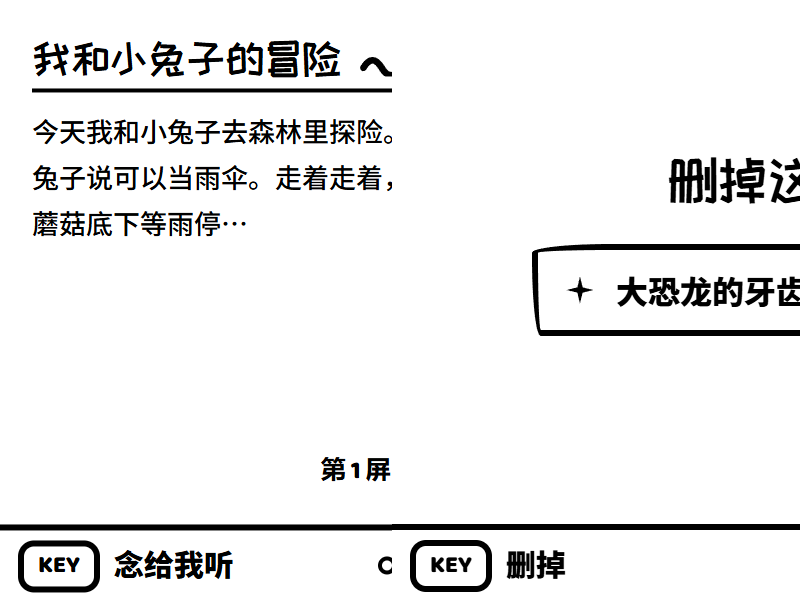
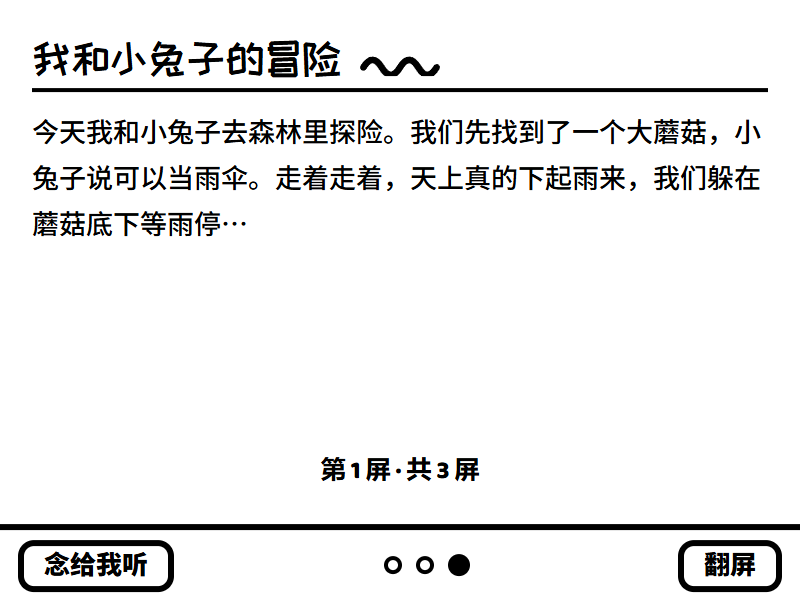
feat(ui-v5): V5 第二轮——键帽动作文字入盒 + P2 外框加粗 + P3/查字窗框族转正 + 截图邻画隔离修复
- 键帽条（24 处）：盒内直接写动作文字（说话/翻页/问课程…），不显示 KEY/BOOT 键名；长按场景前缀「长按·」；手势表保留物理键名
- P2 今天列弃反色：外轮廓 4px 加粗、列内横线保持 1.5px 细线（默认格线 2→1.5px）——反色真机效果不好
- P3 框族弃八值手绘圆角＋微倾：改正常圆角矩形（10px 单值圆角）；★×N 计数去框裸排；录音气泡去倾
- 查字窗：米字格框改 14px 正圆角；右栏纯文本化（弃速查卡框族与静态对照小块）
- 子画面网格列宽 330→450px 修同排画布横向溢出叠压
- shoot_design.mjs 邻画隔离：z=2 的 800px 画布溢出网格列、后 DOM 画布叠绘污染 2x 截图右半（p3-recording 9%/state-listening 5.8% 等 4 幅受染）——截前 visibility 隐藏其它画布；2x↔1bpp 自洽率全部收敛 0.4~2.4%
- 24 张布局锚图全量重出（含修正上一批受污染的 4 幅 2x 图）

diff --git a/docs/ui/kidpal-ui-design-v5.html b/docs/ui/kidpal-ui-design-v5.html
@@ -33,6 +33,7 @@ h1,h2,h3,h4,p{text-wrap:pretty}
 /* ── 手绘框族 ── */
 .frm{border:3px solid var(--ink);border-radius:var(--hand-r)}
 .frm-sm{border:3px solid var(--ink);border-radius:var(--hand-r-sm)}
+.rbox{border:3px solid var(--ink);border-radius:10px}
 .frm-flat{border-bottom:3px solid var(--ink);border-radius:var(--hand-r-sm)}
 .tilt1{transform:rotate(-1deg)}.tilt1r{transform:rotate(1deg)}.tilt2{transform:rotate(-2deg)}.tilt2r{transform:rotate(2deg)}
 
@@ -134,7 +135,7 @@ input[type=range].zoom::-moz-range-thumb{width:14px;height:14px;border-radius:50
 /* ── 画布内通用元件（全部绝对定位，单位＝真机像素） ── */
 .pgbuts{left:0;right:0;bottom:0;height:38px;border-top:3px solid var(--ink);display:flex;align-items:center;justify-content:space-between;gap:6px;padding:0 9px;background:var(--paper)}
 .pgbuts .cell{display:flex;align-items:center;gap:7px;font-size:15px;font-weight:900;white-space:nowrap}
-.pgbuts .kd{display:inline-flex;align-items:center;justify-content:center;min-width:40px;height:26px;padding:0 7px;border:3px solid var(--ink);border-radius:8px;font-family:var(--f-num);font-weight:800;font-size:12px;background:var(--paper)}
+.pgbuts .kd{display:inline-flex;align-items:center;justify-content:center;min-width:52px;height:26px;padding:0 10px;border:3px solid var(--ink);border-radius:8px;font-weight:900;font-size:13px;background:var(--paper)}
 .pgdots{display:flex;gap:7px;align-items:center}
 .pgdots i{width:9px;height:9px;border:2.5px solid var(--ink);border-radius:50%;display:block}
 .pgdots i.on{background:var(--ink);width:11px;height:11px}
@@ -177,7 +178,7 @@ input[type=range].zoom::-moz-range-thumb{width:14px;height:14px;border-radius:50
 .state-item .zoomwrap{--z:.72}
 
 /* ── 双列小画布（P3 子状态等） ── */
-.subshots{display:grid;grid-template-columns:repeat(auto-fit,minmax(330px,1fr));gap:26px;margin-top:26px;align-items:start}
+.subshots{display:grid;grid-template-columns:repeat(auto-fit,minmax(450px,1fr));gap:26px;margin-top:26px;align-items:start}
 .subshots figure{display:flex;flex-direction:column;align-items:center;gap:9px}
 .subshots .zoomwrap{--z:1.05}
 .subshots figcaption{font-size:14.5px;font-weight:700}
@@ -231,10 +232,12 @@ footer small{display:block;margin-top:8px;font-size:12px;font-weight:500}
 .ovr-notes{display:flex;flex-direction:column;gap:9px}
 /* P2 课表网格 */
 .sched{width:100%;height:100%;border-collapse:collapse;table-layout:fixed;font-size:12px;font-weight:700;text-align:center}
-.sched th,.sched td{border:2px solid var(--ink);vertical-align:top;padding:2px 1px;line-height:1.32}
+.sched th,.sched td{border:1.5px solid var(--ink);vertical-align:top;padding:2px 1px;line-height:1.32}
 .sched th{font-size:11px;font-weight:900;vertical-align:middle;height:20px}
 .sched td.rowh{font-size:12px;font-weight:900;vertical-align:middle;width:26px}
-.sched td.inv,.sched th.inv{border-color:var(--ink)}
+.sched th.tdy,.sched td.tdy{border-left:4px solid var(--ink);border-right:4px solid var(--ink)}
+.sched th.tdy{border-top:4px solid var(--ink)}
+.sched tr:last-child td.tdy{border-bottom:4px solid var(--ink)}
 </style>
 </head>
 <body>
@@ -243,6 +246,12 @@ footer small{display:block;margin-top:8px;font-size:12px;font-weight:500}
   ② 明日预告改为「明早」标签区：标签与「接下来」同规格小字，下接明日安排——常显页回答「接下来」与「明早」两级；
   ③ P1 辅助条日期英文化：星期三 6月26日 → Tue 22 Sep（星期简写+日+月简写，无「今天」字样），仅 P1；
   ④ 删 canvas-p1 画布内标注针 ①②③④——布局锚图（shoot_design.mjs 截图，给 dev-loop Pod 消费）不再带针，避免开发比对出错。
+-->
+<!-- ══ v5 第二轮修订（2026-09-22 晚，真机可实现性收敛） ══
+  ⑤ 键帽条改动作文字入盒：所有按键盒内直接写动作文字（说话／翻页／问课程…），不显示 KEY/BOOT 键名；
+  ⑥ P2 今天列弃反色：改外轮廓加粗高亮——列外框 4px、列内横线保持 1.5px 细线（默认格线 1.5px；反色真机效果不好）；
+  ⑦ P3 弃倾斜手绘框：框族一律正常圆角矩形（10px 单值圆角、无倾斜——八值圆角＋微倾真机难实现且显乱）；右上角 ★×N 计数去框裸排（圆角框太挤）；
+  ⑧ 查字窗：左侧米字格框改正圆角矩形，右栏弃速查卡框族与静态对照小块、全部纯文本显示。
 -->
 <!-- ══ v4 修订记录（2026-09-14，全面对齐 requirements.md v1.50 + PHASE1-DESIGN-INPUT.md） ══
   ① P1 首页重心重排（WF-F1-01）：「接下来」日程+倒计时为主体，联网/时间/日期/温湿度/电量收进顶部辅助条小字（📶 打头、图标前置）；v3 的 112px 大时间与眨眼冒号、温度计小人/水滴宝宝随重排退场——时间退居辅助位是 v1.4 设备定位调整的既定代价，孩子若怀念可作时段彩蛋另议；
@@ -404,7 +413,7 @@ footer small{display:block;margin-top:8px;font-size:12px;font-weight:500}
   <div class="cover-grid">
     <div>
       <h1 data-od-id="cover-title">别像一台闹钟，<br/><em>要像一个住进屏幕的伙伴。</em></h1>
-      <p class="sub" data-od-id="cover-sub">给 8–12 岁的孩子、一块 400×300 的黑白反射屏、两颗物理键——这一版只回答一个问题：<b>孩子第一眼会不会喊出「好可爱」。</b>v5 主刀 P1：「接下来」改文本列表、「明早」标签预告区、辅助条日期英文化（Tue 22 Sep）；其余沿用 v4 对齐 requirements v1.50 的结构底盘，spec 修订随后同步。</p>
+      <p class="sub" data-od-id="cover-sub">给 8–12 岁的孩子、一块 400×300 的黑白反射屏、两颗物理键——这一版只回答一个问题：<b>孩子第一眼会不会喊出「好可爱」。</b>v5 主刀：P1 文本列表化＋「明早」标签区＋日期英文化（Tue 22 Sep）；键帽动作文字入盒（不显示键名）；P2 今天列改边框加粗；P3 与查字窗框族改正常圆角、查字窗右栏纯文本。spec 修订随后同步。</p>
       <div class="meta-stamps" data-od-id="cover-stamps">
         <span class="stamp-tag tilt1r"><b>1bpp</b> 纯黑白</span>
         <span class="stamp-tag tilt1"><b>400×300</b> 真实画布</span>
@@ -573,17 +582,17 @@ footer small{display:block;margin-top:8px;font-size:12px;font-weight:500}
       <h3>底部键帽提示条</h3>
       <div class="dev" style="position:relative;transform:none;width:352px;max-width:100%;height:64px;outline-offset:-2.5px">
         <div class="pgbuts" style="top:22px;height:38px">
-          <span class="cell"><span class="kd">KEY</span>说话</span>
+          <span class="cell"><span class="kd">说话</span></span>
           <div class="pgdots"><i></i><i class="on"></i><i></i></div>
-          <span class="cell">翻页<span class="kd">BOOT</span></span>
+          <span class="cell"><span class="kd">翻页</span></span>
         </div>
       </div>
       <table class="spec-table"><tbody>
         <tr><th>高度</th><td>38px，通栏贴底，上沿一条 3px 实线分隔</td></tr>
-        <tr><th>布局</th><td>左槽＝KEY 操作提示；<b>中槽＝3 点页面指示器</b>（当前页实心放大）；右槽＝BOOT 提示</td></tr>
+        <tr><th>布局</th><td>左槽＝左键操作提示；<b>中槽＝3 点页面指示器</b>（当前页实心放大）；右槽＝右键提示——键名（KEY/BOOT）不上屏，盒内直接写动作文字</td></tr>
         <tr><th>页点规则</th><td><b>页点仅 P1–P3 主页面显示</b>；覆盖层（提醒弹窗/查字窗/语音轮演出/删除确认）不显示页点，左右槽照常给操作提示；<b>条本身任何状态常驻</b>（基座 chrome，覆盖层盖不掉）</td></tr>
-        <tr><th>键帽规格</th><td>高 26px、最小宽 40px、圆角 8px、3px 描边、字母用圆胖数字体——这是界面上唯一的「操作控件」长相，但它是<b>提示</b>不是按钮</td></tr>
-        <tr><th>长按注记</th><td>需要长按时在键帽左侧挂小字「长按」，如 <span class="kd" style="height:22px;font-size:11px">BOOT</span><span class="kcap-note">长按</span></td></tr>
+        <tr><th>键帽规格</th><td>高 26px、最小宽 52px、圆角 8px、3px 描边、盒内动作文字（900 字重 13px）——这是界面上唯一的「操作控件」长相，但它是<b>提示</b>不是按钮</td></tr>
+        <tr><th>长按注记</th><td>需要长按时动作文字前缀「长按·」，如 <span class="kd" style="height:22px;font-size:11px">长按·删除</span></td></tr>
       </tbody></table>
     </article>
 
@@ -757,9 +766,9 @@ footer small{display:block;margin-top:8px;font-size:12px;font-weight:500}
           <svg style="width:58px;left:18px;bottom:52px" viewBox="0 0 48 14"><use href="#ic-wave"/></svg>
           <!-- 底部键帽条（全局 chrome，非页内元素） -->
           <div class="pgbuts">
-            <span class="cell"><span class="kd">KEY</span>说话</span>
+            <span class="cell"><span class="kd">说话</span></span>
             <div class="pgdots"><i class="on"></i><i></i><i></i></div>
-            <span class="cell">翻页<span class="kd">BOOT</span></span>
+            <span class="cell"><span class="kd">翻页</span></span>
           </div>
         </div></div></div>
         <label class="zoom-row"><svg viewBox="0 0 48 48"><use href="#ic-mag"/></svg><input class="zoom" type="range" min="0.6" max="2.2" step="0.05" value="1.7" aria-label="P1 画布缩放"/><output class="zoom-val">1.7×</output></label>
@@ -788,13 +797,13 @@ footer small{display:block;margin-top:8px;font-size:12px;font-weight:500}
         <div class="bezel"><div class="devsz"><div class="dev" data-od-id="canvas-p2">
           <table class="sched" style="left:5px;top:6px;width:390px;height:250px">
             <tr>
-              <th></th><th>周一</th><th>周二</th><th class="inv">周三</th><th>周四</th><th>周五</th><th>周六</th><th>周日</th>
+              <th></th><th>周一</th><th>周二</th><th class="tdy">周三</th><th>周四</th><th>周五</th><th>周六</th><th>周日</th>
             </tr>
             <tr style="height:96px">
               <td class="rowh">上午</td>
               <td>语文<br/>数学<br/>英语<br/>体育</td>
               <td>语文<br/>英语<br/>体育<br/>美术</td>
-              <td class="inv">数学<br/>语文<br/>英语<br/>音乐</td>
+              <td class="tdy">数学<br/>语文<br/>英语<br/>音乐</td>
               <td>语文<br/>数学<br/>科学<br/>英语</td>
               <td>数学<br/>语文<br/>体育<br/>美术</td>
               <td>英语</td>
@@ -804,7 +813,7 @@ footer small{display:block;margin-top:8px;font-size:12px;font-weight:500}
               <td class="rowh">下午</td>
               <td>科学<br/>美术</td>
               <td>数学<br/>科学</td>
-              <td class="inv">体育<br/>★钢琴</td>
+              <td class="tdy">体育<br/>★钢琴</td>
               <td>美术<br/>体育</td>
               <td>音乐<br/>班队</td>
               <td></td>
@@ -814,7 +823,7 @@ footer small{display:block;margin-top:8px;font-size:12px;font-weight:500}
               <td class="rowh">晚上</td>
               <td></td>
               <td></td>
-              <td class="inv">书法</td>
+              <td class="tdy">书法</td>
               <td>编程</td>
               <td></td>
               <td>舞蹈</td>
@@ -822,9 +831,9 @@ footer small{display:block;margin-top:8px;font-size:12px;font-weight:500}
             </tr>
           </table>
           <div class="pgbuts">
-            <span class="cell"><span class="kd">KEY</span>问课程</span>
+            <span class="cell"><span class="kd">问课程</span></span>
             <div class="pgdots"><i></i><i class="on"></i><i></i></div>
-            <span class="cell">翻页<span class="kd">BOOT</span></span>
+            <span class="cell"><span class="kd">翻页</span></span>
           </div>
         </div></div></div>
         <label class="zoom-row"><svg viewBox="0 0 48 48"><use href="#ic-mag"/></svg><input class="zoom" type="range" min="0.6" max="2.2" step="0.05" value="1.7" aria-label="P2 画布缩放"/><output class="zoom-val">1.7×</output></label>
@@ -832,8 +841,8 @@ footer small{display:block;margin-top:8px;font-size:12px;font-weight:500}
       <aside class="rail">
         <ul class="pts frm-sm" data-od-id="p2-notes">
           <li><b>网格口径</b>：格内逐节列课程名——学校课上午 4 节、下午 2 节逐节列出，课外课（固定培训班＋临时安排）逐门列出；不按具体钟点排，一格多门逐门列出、不做格内滚动</li>
-          <li><b>三种 1bpp 标记</b>：今天列整列反色高亮（图例＝周三）；※＝临时安排；★＝被首页「接下来」标记的课（与 P1「14:00 钢琴课」呼应——跨页叙事连续性）</li>
-          <li><b>页内无标题、无操作提示</b>：省出高度给网格；操作提示归全局键帽条（左「KEY 问课程」／右「BOOT 翻页」）</li>
+          <li><b>三种 1bpp 标记</b>：今天列外轮廓加粗高亮（列外框 4px、列内横线仍 1.5px 细线，默认格线 1.5px；图例＝周三——反色真机效果不好已弃）；※＝临时安排；★＝被首页「接下来」标记的课（与 P1「14:00 钢琴课」呼应——跨页叙事连续性）</li>
+          <li><b>页内无标题、无操作提示</b>：省出高度给网格；操作提示归全局键帽条（左「问课程」／右「翻页」——键帽盒内直接写动作文字，不显示键名）</li>
           <li><b>字号压力</b>：上午格要塞 4 行课程名，格内 12px 小字正撞 1bpp 可读性下限（未实测）——先按可读字号排，实测后回写校准</li>
           <li>问细节用语音（「我下节课在哪」答案走问答框，不嵌回本页）；说「帮我显示课表」才切到本页；周末空格自然留白</li>
         </ul>
@@ -848,12 +857,12 @@ footer small{display:block;margin-top:8px;font-size:12px;font-weight:500}
       <div class="zoomwrap">
         <div class="bezel"><div class="devsz"><div class="dev" data-od-id="canvas-p3">
           <!-- 右上角星星计数 = 页身份（页内无标题） -->
-          <span class="frm-sm tilt2r" style="right:12px;top:10px;display:inline-flex;align-items:center;gap:5px;padding:2px 9px;background:#fff">
-            <svg style="width:17px" viewBox="0 0 48 48"><use href="#ic-star"/></svg>
-            <b style="font-family:var(--f-num);font-weight:800;font-size:15px">×5</b>
+          <span style="right:12px;top:10px;display:inline-flex;align-items:center;gap:5px">
+            <svg style="width:19px" viewBox="0 0 48 48"><use href="#ic-star"/></svg>
+            <b style="font-family:var(--f-num);font-weight:800;font-size:17px">×5</b>
           </span>
           <div style="left:14px;top:44px;right:14px;display:flex;flex-direction:column;gap:5px">
-            <div class="frm-sm tilt1" style="display:flex;align-items:center;gap:10px;padding:5px 10px;background:#fff">
+            <div class="rbox" style="display:flex;align-items:center;gap:10px;padding:5px 10px;background:#fff">
               <svg style="width:18px;flex:none" viewBox="0 0 48 48"><use href="#ic-star"/></svg>
               <b style="font-size:16px;font-weight:900">我和小兔子的冒险</b>
               <b style="font-family:var(--f-num);font-weight:800;font-size:12px;margin-left:auto">昨天</b>
@@ -877,9 +886,9 @@ footer small{display:block;margin-top:8px;font-size:12px;font-weight:500}
           <span class="voice-chip" style="left:14px;top:210px;font-size:11.5px"><svg style="width:14px" viewBox="0 0 48 48"><use href="#ic-mic"/></svg>说「我要讲故事 / 帮我记下来」开录新的</span>
           <div style="left:0;right:0;bottom:44px;text-align:center;font-family:var(--f-num);font-weight:800;font-size:12px">第 1 屏 · 共 3 屏</div>
           <div class="pgbuts">
-            <span class="cell"><span class="kd">KEY</span>说话·双击看</span>
+            <span class="cell"><span class="kd">说话·双击看</span></span>
             <div class="pgdots"><i></i><i></i><i class="on"></i></div>
-            <span class="cell">下移<span class="kd">BOOT</span></span>
+            <span class="cell"><span class="kd">下移</span></span>
           </div>
         </div></div></div>
         <label class="zoom-row"><svg viewBox="0 0 48 48"><use href="#ic-mag"/></svg><input class="zoom" type="range" min="0.6" max="2.2" step="0.05" value="1.7" aria-label="P3 画布缩放"/><output class="zoom-val">1.7×</output></label>
@@ -887,7 +896,7 @@ footer small{display:block;margin-top:8px;font-size:12px;font-weight:500}
       <aside class="rail">
         <ul class="pts frm-sm" data-od-id="p3-notes">
           <li><b>页内无标题</b>：右上角 ★×N 计数即页身份——每记一篇集一颗星，收集成就感的种子；计数＝现存篇数（删除会 −1）</li>
-          <li><b>每条＝星星＋标题＋日期</b>；选中行<b>带边框不反白</b>（反白真机效果差，v1.31 human 裁）；进页默认光标落第一条</li>
+          <li><b>每条＝星星＋标题＋日期</b>；选中行<b>带边框不反白</b>（反白真机效果差，v1.31 human 裁）；v5 起全页框族一律正常圆角矩形（10px 单值圆角、无倾斜——手绘八值圆角＋微倾真机难实现且显乱）；进页默认光标落第一条</li>
           <li>超一屏底部「第 x 屏 · 共 y 屏」（与阅读态同心智）；BOOT 下移／双击跳屏／到底 wrap，<b>列表态无按键翻页出口</b>（离开＝KEY 双击看／KEY 长按回首页／语音切页）</li>
           <li>常驻语音入口提示（双指令）：「我要讲故事 / 帮我记下来」；BOOT 长按＝删除选中 → 确认弹窗（见下）</li>
         </ul>
@@ -904,11 +913,11 @@ footer small{display:block;margin-top:8px;font-size:12px;font-weight:500}
           </div>
           <div style="left:180px;top:38px;font-family:var(--f-num);font-weight:800;font-size:44px;letter-spacing:-1px">02:35</div>
           <svg style="left:180px;top:94px;width:206px" viewBox="0 0 48 14" preserveAspectRatio="none" height="34"><path d="M2 7 L8 2 L13 12 L18 4 L24 12 L29 3 L35 11 L41 5 L46 9" fill="none" stroke="#000" stroke-width="2.5" stroke-linecap="round" stroke-linejoin="round"/></svg>
-          <div class="bub tilt1" style="left:180px;top:138px;font-size:14px">跟着感觉说，我在记！</div>
+          <div class="bub" style="left:180px;top:138px;font-size:14px">跟着感觉说，我在记！</div>
           <div style="left:180px;top:184px;right:12px;font-size:12.5px;font-weight:700;line-height:1.65">我：今天我们去了动物园，<br/>我：看到了长颈鹿…</div>
           <div class="pgbuts">
-            <span class="cell"><span class="kd">KEY</span>收尾</span>
-            <span class="cell">结束<span class="kd">BOOT</span></span>
+            <span class="cell"><span class="kd">收尾</span></span>
+            <span class="cell"><span class="kd">结束</span></span>
           </div>
         </div></div></div></div>
         <figcaption>子状态① 录音中（四态同骨架：左小伴 pose-record · 右内容区）——REC 闪点＋大时长＋声波＋整段累积回显；开口前的引导态复用聆听布局、气泡换「需要我帮你记点什么？」</figcaption>
@@ -923,9 +932,9 @@ footer small{display:block;margin-top:8px;font-size:12px;font-weight:500}
           <p style="left:16px;right:16px;top:54px;font-size:13.5px;line-height:1.72;font-weight:500;margin:0">今天我和小兔子去森林里探险。我们先找到了一个大蘑菇，小兔子说可以当雨伞。走着走着，天上真的下起雨来，我们躲在蘑菇底下等雨停…</p>
           <div style="left:0;right:0;bottom:52px;text-align:center;font-family:var(--f-num);font-weight:800;font-size:12.5px">第 1 屏 · 共 3 屏</div>
           <div class="pgbuts">
-            <span class="cell"><span class="kd">KEY</span>念给我听</span>
+            <span class="cell"><span class="kd">念给我听</span></span>
             <div class="pgdots"><i></i><i></i><i class="on"></i></div>
-            <span class="cell">翻屏<span class="kd">BOOT</span></span>
+            <span class="cell"><span class="kd">翻屏</span></span>
           </div>
         </div></div></div></div>
         <figcaption>子状态② 阅读态（纯阅读＋朗读一义到底，无会话入口）——标题＋分隔线＋正文分屏（13.5px 起、行高 1.72）；BOOT 翻屏末屏 wrap 永不离页；KEY 长按退出回列表</figcaption>
@@ -933,14 +942,14 @@ footer small{display:block;margin-top:8px;font-size:12px;font-weight:500}
       <figure data-od-id="p3-delete-confirm">
         <div class="zoomwrap"><div class="bezel"><div class="devsz"><div class="dev">
           <b style="left:0;right:0;top:66px;text-align:center;font-family:var(--f-disp);font-weight:400;font-size:27px">删掉这篇？</b>
-          <div class="frm-sm" style="left:70px;top:122px;width:260px;display:flex;align-items:center;gap:9px;padding:6px 12px;background:#fff">
+          <div class="rbox" style="left:70px;top:122px;width:260px;display:flex;align-items:center;gap:9px;padding:6px 12px;background:#fff">
             <svg style="width:18px;flex:none" viewBox="0 0 48 48"><use href="#ic-star"/></svg>
             <b style="font-size:16px;font-weight:900">大恐龙的牙齿</b>
             <b style="font-family:var(--f-num);font-weight:800;font-size:12px;margin-left:auto">9月10日</b>
           </div>
           <div class="pgbuts">
-            <span class="cell"><span class="kd">KEY</span>删掉</span>
-            <span class="cell">算了<span class="kd">BOOT</span></span>
+            <span class="cell"><span class="kd">删掉</span></span>
+            <span class="cell"><span class="kd">算了</span></span>
           </div>
         </div></div></div></div>
         <figcaption>子状态③ 删除确认弹窗（整屏覆盖层，与提醒同族）——列表态 BOOT 长按进；KEY＝确认（星星计数 −1）／BOOT 任意手势＝取消；10 秒无操作静默取消（不显示倒计时）</figcaption>
@@ -973,7 +982,7 @@ footer small{display:block;margin-top:8px;font-size:12px;font-weight:500}
       <div class="zoomwrap">
         <div class="bezel"><div class="devsz"><div class="dev" data-od-id="char-window">
           <!-- 左：米字格大字盘 -->
-          <div class="frm" style="left:10px;top:16px;width:236px;height:236px;background:#fff">
+          <div class="rbox" style="left:10px;top:16px;width:236px;height:236px;background:#fff;border-radius:14px">
             <!-- B8 锁定（v3 定稿沿用）：固件侧笔顺字盘打包 = 笔形 3 态（todo/cur/done）叠加复用 + 米字格单份背景，禁逐笔逐态整帧烘烤 -->
               <svg id="charsvg" style="position:absolute;left:10px;top:10px;width:208px;height:208px" viewBox="0 0 200 200">
               <g stroke="#000" stroke-width="1.5" stroke-dasharray="3 9">
@@ -997,22 +1006,14 @@ footer small{display:block;margin-top:8px;font-size:12px;font-weight:500}
           </div>
           <!-- 右栏速查卡 -->
           <div style="left:262px;top:24px;font-family:var(--f-disp);font-weight:400;font-size:34px">xīng</div>
-          <div class="frm-sm" style="left:262px;top:76px;padding:2px 10px;font-size:14px;font-weight:400;font-family:var(--f-disp)">共 <b style="font-family:var(--f-num);font-weight:800;font-size:17px">9</b> 画</div>
-          <div style="left:262px;top:112px;font-size:14px;font-weight:400;font-family:var(--f-disp)">部首：<span class="frm-sm" style="display:inline-block;padding:0 8px;margin-left:4px">日</span></div>
-          <div style="left:262px;top:148px;display:flex;gap:7px">
-            <span class="frm-sm" style="display:inline-block;padding:2px 10px;font-size:15px;font-weight:400;background:#fff;font-family:var(--f-disp)">星星</span>
-            <span class="frm-sm" style="display:inline-block;padding:2px 10px;font-size:15px;font-weight:400;background:#fff;font-family:var(--f-disp)">星空</span>
-          </div>
+          <div style="left:262px;top:78px;font-size:15px;font-weight:400;font-family:var(--f-disp)">共 <b style="font-family:var(--f-num);font-weight:800;font-size:18px">9</b> 画</div>
+          <div style="left:262px;top:114px;font-size:15px;font-weight:400;font-family:var(--f-disp)">部首：日</div>
+          <div style="left:262px;top:150px;font-size:15px;font-weight:400;font-family:var(--f-disp)">组词：星星 · 星空</div>
           <div style="left:262px;top:188px;font-size:15px;font-weight:400;font-family:var(--f-disp)" id="progtext"></div>
           <svg class="bob" style="left:280px;top:226px;width:20px" viewBox="0 0 48 48"><use href="#ic-star"/></svg>
-          <!-- 静态对照小块 -->
-          <div style="left:356px;top:16px;display:flex;flex-direction:column;gap:6px">
-            <svg class="frm-sm" style="width:34px;height:34px;background:#fff" viewBox="0 0 200 200"><g fill="#000" opacity=".18"><path d="M66 20 C70 19 72 21 71 25 L70 74 C70 79 68 82 65 82 C62 82 61 79 61 74 L62 25 C62 21 63 20 66 20 Z"/><path d="M64 18 L136 18 C140 18 141 21 140 24 L138 74 C138 79 135 82 131 82 L131 76 L134 24 L66 24 Z"/><path d="M64 49 L136 49 C139 49 140 51 139 53 L139 55 L63 55 L63 53 C62 51 62 49 64 49 Z"/><path d="M63 78 L137 78 C141 78 143 82 140 84 C133 87 71 87 62 84 C59 82 60 78 63 78 Z"/><path d="M101 89 C104 88 106 90 104 93 L85 131 C83 136 79 137 77 135 C75 133 76 130 78 127 L97 91 C98 89 99 89 101 89 Z"/><path d="M80 131 L137 131 C140 131 141 133 140 135 L140 137 L78 137 L78 135 C77 133 78 131 80 131 Z"/><path d="M79 151 L134 151 C138 151 139 153 138 155 L138 157 L77 157 L77 155 C76 153 77 151 79 151 Z"/><path d="M101 89 C104 89 106 91 106 94 L106 191 C106 195 104 197 100 197 C96 197 94 195 94 191 L94 94 C94 91 96 89 99 89 Z"/><path d="M62 192 L138 192 C143 192 145 196 141 198 C132 201 70 201 61 198 C57 196 58 192 62 192 Z"/></g></svg>
-            <svg class="frm-sm" style="width:34px;height:34px;background:#fff" viewBox="0 0 200 200"><g fill="#000"><path d="M66 20 C70 19 72 21 71 25 L70 74 C70 79 68 82 65 82 C62 82 61 79 61 74 L62 25 C62 21 63 20 66 20 Z"/><path d="M64 18 L136 18 C140 18 141 21 140 24 L138 74 C138 79 135 82 131 82 L131 76 L134 24 L66 24 Z"/><path d="M64 49 L136 49 C139 49 140 51 139 53 L139 55 L63 55 L63 53 C62 51 62 49 64 49 Z"/><path d="M63 78 L137 78 C141 78 143 82 140 84 C133 87 71 87 62 84 C59 82 60 78 63 78 Z"/><path d="M101 89 C104 88 106 90 104 93 L85 131 C83 136 79 137 77 135 C75 133 76 130 78 127 L97 91 C98 89 99 89 101 89 Z"/><path d="M80 131 L137 131 C140 131 141 133 140 135 L140 137 L78 137 L78 135 C77 133 78 131 80 131 Z"/><path d="M79 151 L134 151 C138 151 139 153 138 155 L138 157 L77 157 L77 155 C76 153 77 151 79 151 Z"/><path d="M101 89 C104 89 106 91 106 94 L106 191 C106 195 104 197 100 197 C96 197 94 195 94 191 L94 94 C94 91 96 89 99 89 Z"/><path d="M62 192 L138 192 C143 192 145 196 141 198 C132 201 70 201 61 198 C57 196 58 192 62 192 Z"/></g></svg>
-          </div>
           <div class="pgbuts">
-            <span class="cell"><span class="kd">KEY</span>重播</span>
-            <span class="cell">结束<span class="kd">BOOT</span></span>
+            <span class="cell"><span class="kd">重播</span></span>
+            <span class="cell"><span class="kd">结束</span></span>
           </div>
         </div></div></div>
         <label class="zoom-row"><svg viewBox="0 0 48 48"><use href="#ic-mag"/></svg><input class="zoom" type="range" min="0.6" max="2.2" step="0.05" value="1.7" aria-label="查字窗画布缩放"/><output class="zoom-val">1.7×</output></label>
@@ -1024,7 +1025,7 @@ footer small{display:block;margin-top:8px;font-size:12px;font-weight:500}
           <li><b>会话口径</b>：弹窗播 TTS 引导语（「星字一共 9 笔，跟着我一起写吧」——不逐笔念笔名），播完会话即结束、不回聆听态，孩子安静照写</li>
           <li><b>窗口口径</b>：覆盖窗无页点；驻留到按键，或 5 分钟无操作自动关窗回原页；BOOT／KEY 长按＝关窗回原页不翻页（v1.39 隔离）</li>
           <li><b>Teaching 字体红线</b>：只有米字格里的示范「星」字必须规范字形（横平竖直、不抖不斜，孩子照着写）；拼音／部首／组词等说明文字回归可爱体，不当教材</li>
-          <li>右栏拼音／笔画数／部首／组词保持速查卡密度，不做关键词解释墙；右侧两枚小方块＝「未写态／完成态」静态对照，供评审离线核对</li>
+          <li>右栏拼音／笔画数／部首／组词纯文本列出，不做关键词解释墙（v5 弃速查卡框族与静态对照小块——右侧无框、全部文本显示；框族同时改正圆角矩形）</li>
         </ul>
       </aside>
     </div>
@@ -1050,8 +1051,8 @@ footer small{display:block;margin-top:8px;font-size:12px;font-weight:500}
         <div class="bub bob" style="left:208px;top:94px;font-size:19px">我在听！</div>
         <div style="left:192px;top:152px;right:14px;font-size:13px;font-weight:700;line-height:1.7">我：今天下午有什么课？<br/>我：那明天呢？</div>
         <div class="pgbuts">
-          <span class="cell"><span class="kd">KEY</span>说完啦</span>
-          <span class="cell">结束<span class="kd">BOOT</span></span>
+          <span class="cell"><span class="kd">说完啦</span></span>
+          <span class="cell"><span class="kd">结束</span></span>
         </div>
       </div></div></div></div>
       <figcaption><b>① 聆听中</b>——三层冗余反馈（竖耳／麦克风／气泡）＋<b>话语回显区</b>：孩子说的话逐句上屏，确认「它听清了没」；回显区滚动、超屏高滚出。记录语境引导态复用本布局、气泡换「需要我帮你记点什么？」</figcaption>
@@ -1065,8 +1066,8 @@ footer small{display:block;margin-top:8px;font-size:12px;font-weight:500}
         <b class="bob" style="left:238px;top:98px;font-family:var(--f-disp);font-weight:400;font-size:23px;transform:rotate(-6deg);animation-delay:.6s">?</b>
         <b class="bob" style="left:272px;top:70px;font-family:var(--f-disp);font-weight:400;font-size:19px;transform:rotate(5deg);animation-delay:1s">?</b>
         <div class="pgbuts">
-          <span class="cell"><span class="kd">KEY</span>不等了</span>
-          <span class="cell">结束<span class="kd">BOOT</span></span>
+          <span class="cell"><span class="kd">不等了</span></span>
+          <span class="cell"><span class="kd">结束</span></span>
         </div>
       </div></div></div></div>
       <figcaption><b>② 思考中</b>——孩子说完这一句即弹出（状态切换与页面弹出同一时刻）；挠头＋飘问号把「等待」演成剧情；超 4 秒先开口安抚，绝不冷场</figcaption>
@@ -1079,8 +1080,8 @@ footer small{display:block;margin-top:8px;font-size:12px;font-weight:500}
         <div class="eq" style="left:182px;top:66px;display:flex;gap:5px;align-items:flex-end;height:32px;position:absolute"><i style="height:16px"></i><i style="height:28px"></i><i style="height:20px"></i><i style="height:32px"></i><i style="height:12px"></i></div>
         <div class="frm tilt1r" style="left:182px;top:110px;width:204px;padding:8px 12px;background:#fff;font-size:14.5px;font-weight:900;line-height:1.55">明天上午有语文、数学、英语、体育，下午有科学和美术。晚上没有课哦。</div>
         <div class="pgbuts">
-          <span class="cell"><span class="kd">KEY</span>打断</span>
-          <span class="cell">结束<span class="kd">BOOT</span></span>
+          <span class="cell"><span class="kd">打断</span></span>
+          <span class="cell"><span class="kd">结束</span></span>
         </div>
       </div></div></div></div>
       <figcaption><b>③ 播报中（＝问答框）</b>——百科问答与语音问课表的答复都在这里同步上屏；声波条跳动给「还在说」的证据；长文滚动看完；按 KEY 随时可以插嘴</figcaption>
@@ -1096,8 +1097,8 @@ footer small{display:block;margin-top:8px;font-size:12px;font-weight:500}
         </div>
         <b style="left:192px;top:104px;right:14px;font-family:var(--f-disp);font-weight:400;font-size:25px;line-height:1.3">记得带画具！</b>
         <div class="pgbuts">
-          <span class="cell"><span class="kd">KEY</span>知道了</span>
-          <span class="cell">关闭<span class="kd">BOOT</span></span>
+          <span class="cell"><span class="kd">知道了</span></span>
+          <span class="cell"><span class="kd">关闭</span></span>
         </div>
       </div></div></div></div>
       <figcaption><b>④ 提醒弹窗（整屏覆盖 · 最高层）</b>——与语音轮同骨架，不再单独设计；提示音＋语音读出＋弹窗三件套同时发生；驻留到按键不设自动消失；录音中到达则排队延后；KEY／BOOT 都是关闭回原页、不翻页</figcaption>
